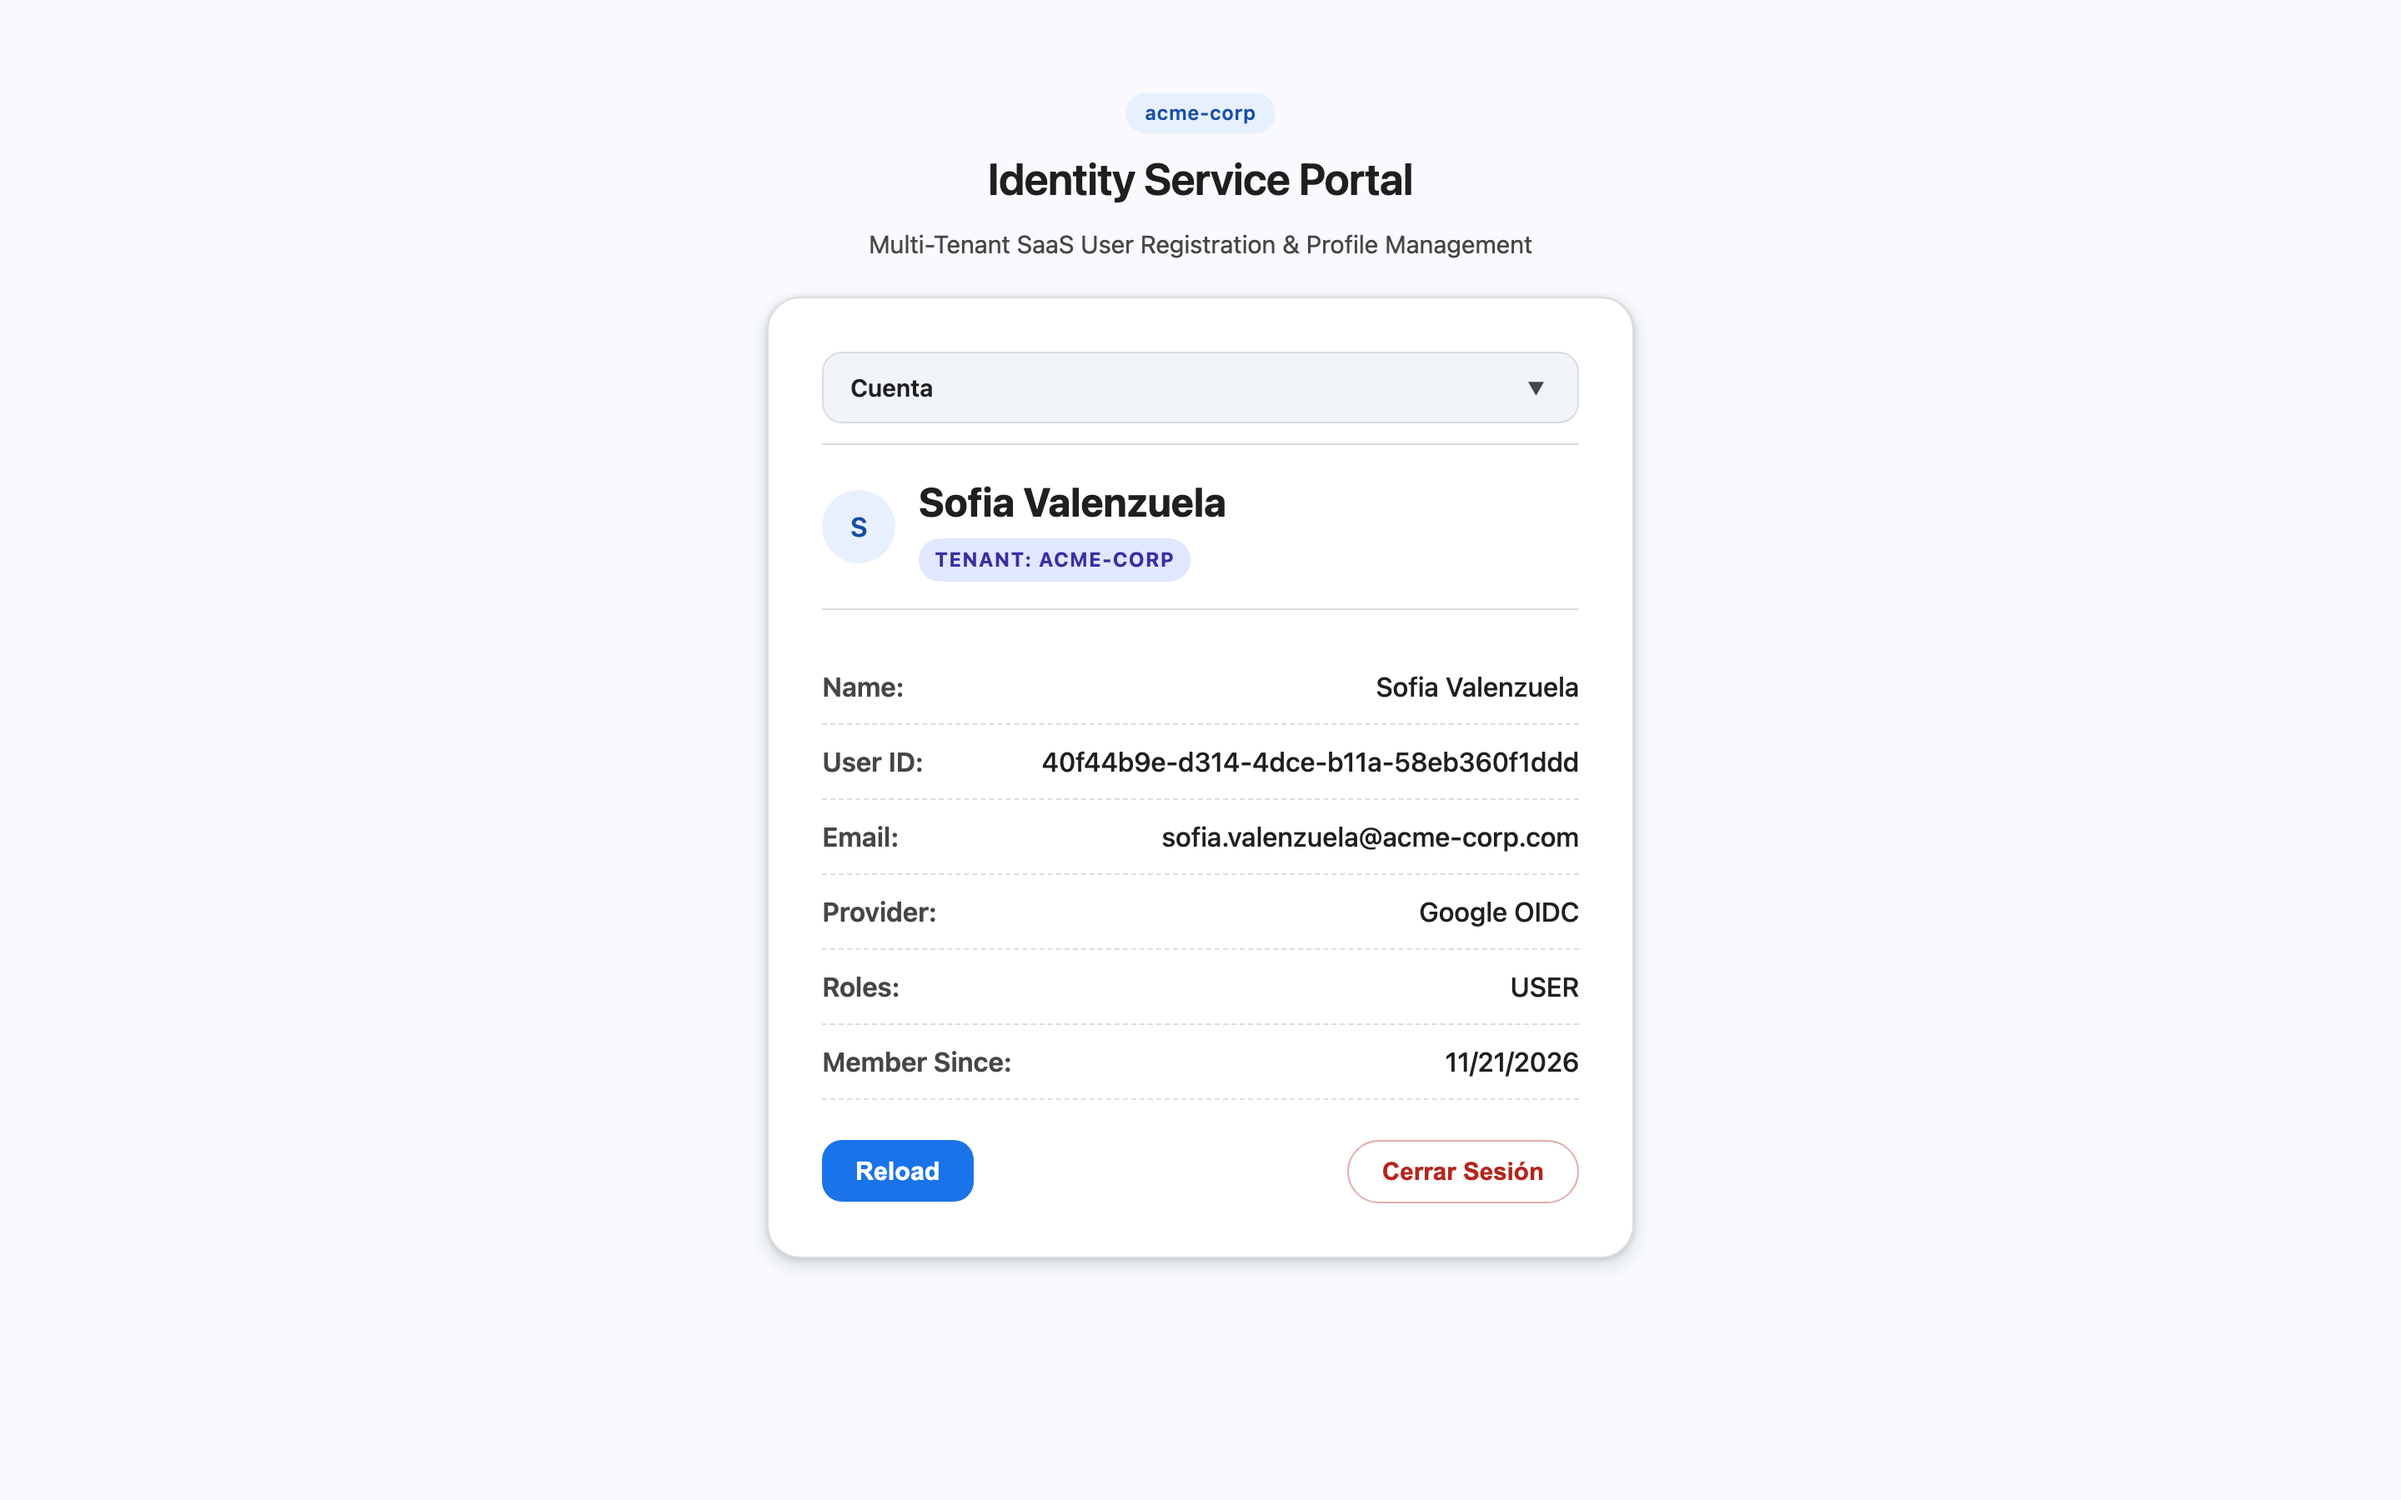
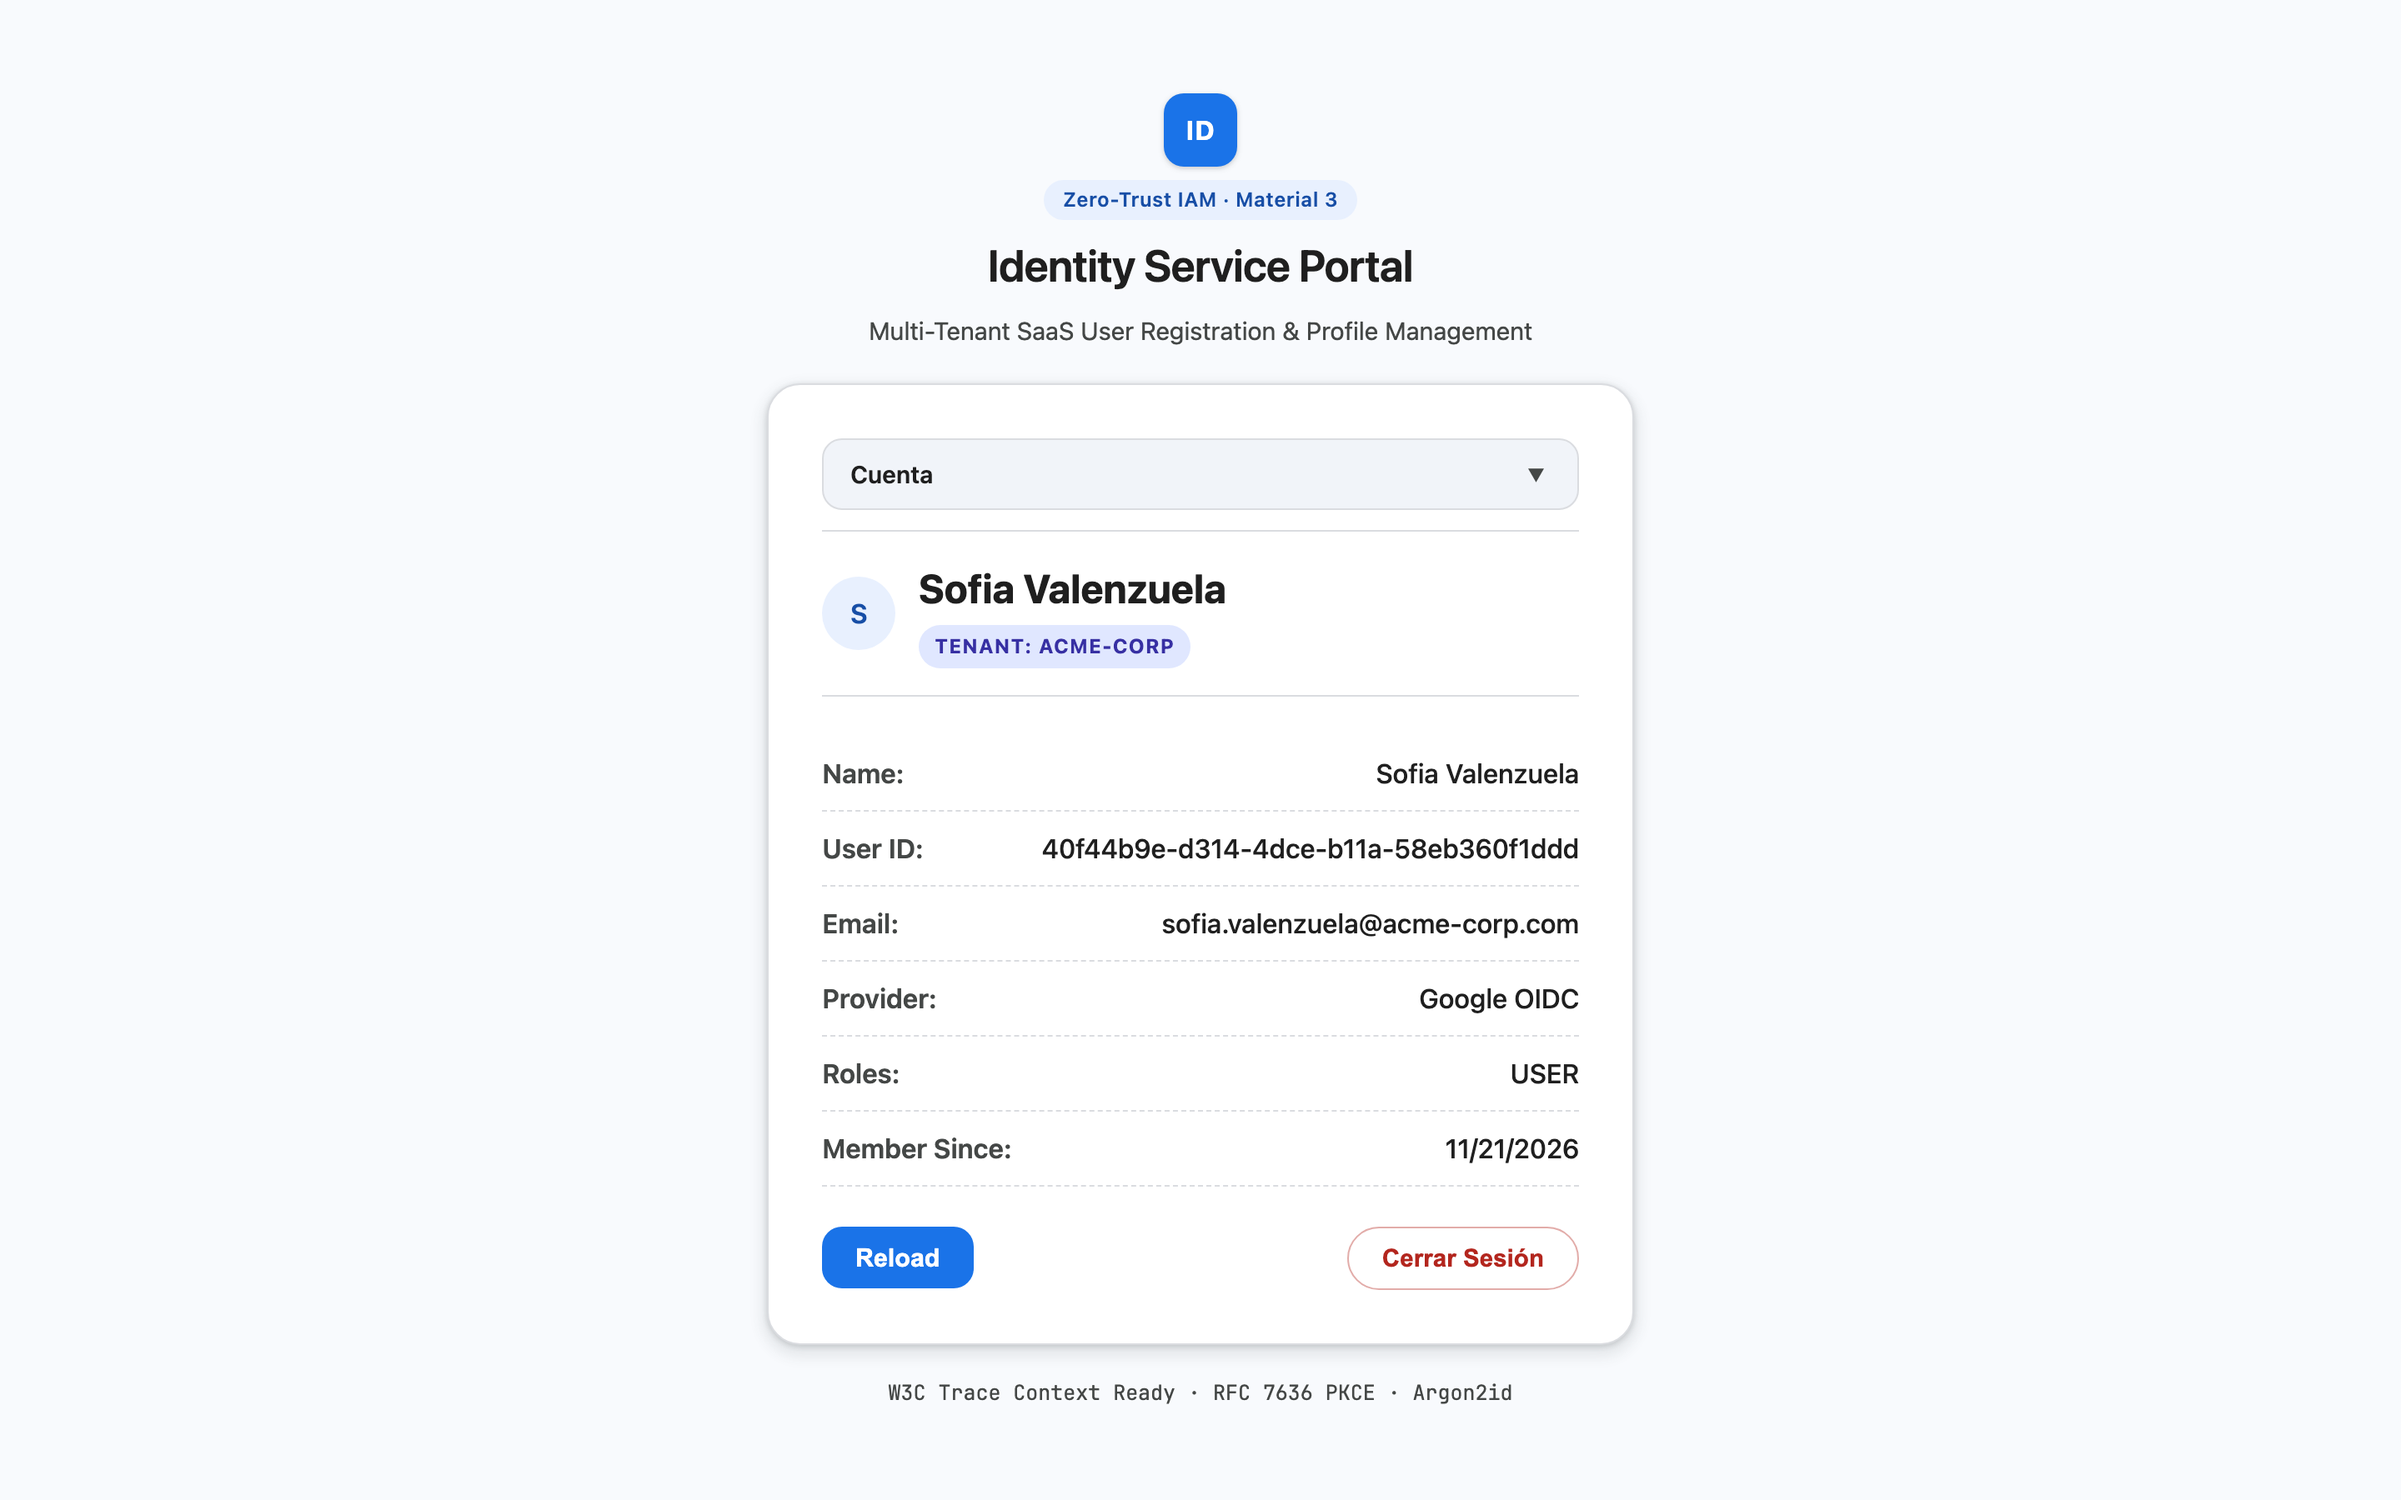
refactor(web): unify /auth header brand mark and chip across signed-in and signed-out states

diff --git a/interfaces/web/client/shell/BoundedShell.tsx b/interfaces/web/client/shell/BoundedShell.tsx
@@ -188,19 +188,23 @@ export function BoundedShell({ session, pathname, children }: BoundedShellProps)
 
   // Sesión activa en superficie /auth
   return (
-    <main
-      className="m3-auth-shell"
-      data-testid="auth-surface"
-    >
+    <main className="m3-auth-shell" data-testid="auth-surface">
       <header className="m3-auth-header">
-        <M3Chip label={`${session.tenantId}`} tone="primary" />
+        <div className="m3-brand-mark" aria-hidden="true">
+          ID
+        </div>
+        <M3Chip label="Zero-Trust IAM · Material 3" tone="primary" />
         <h1>Identity Service Portal</h1>
         <p>Multi-Tenant SaaS User Registration &amp; Profile Management</p>
       </header>
 
-      <M3Card variant="elevated" className="m3-auth-card">
+      <M3Card variant="elevated" className="m3-auth-card" testId="auth-card">
         {children}
       </M3Card>
+
+      <footer className="m3-auth-footer">
+        <span>W3C Trace Context Ready · RFC 7636 PKCE · Argon2id</span>
+      </footer>
     </main>
   );
 }
